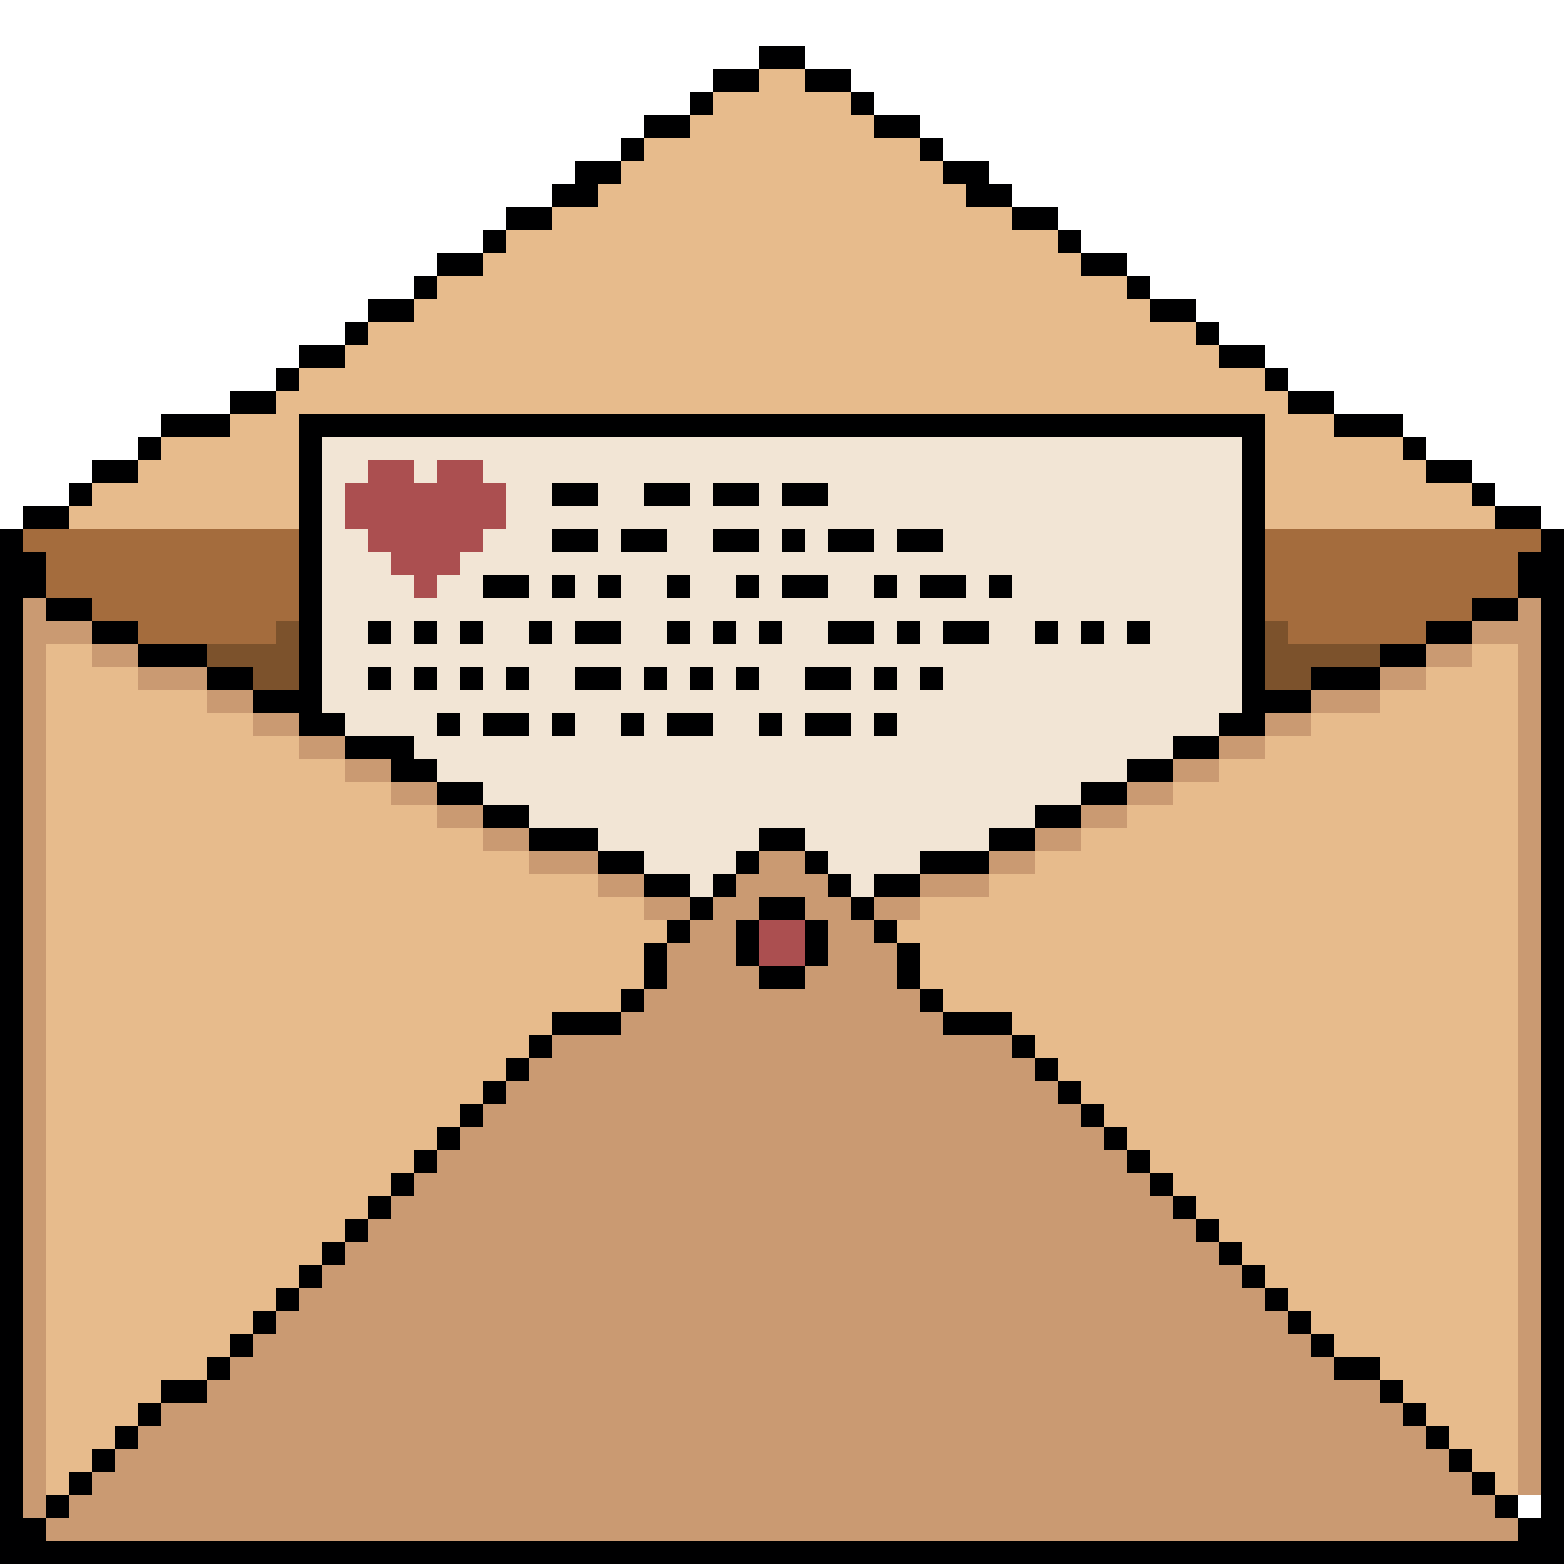
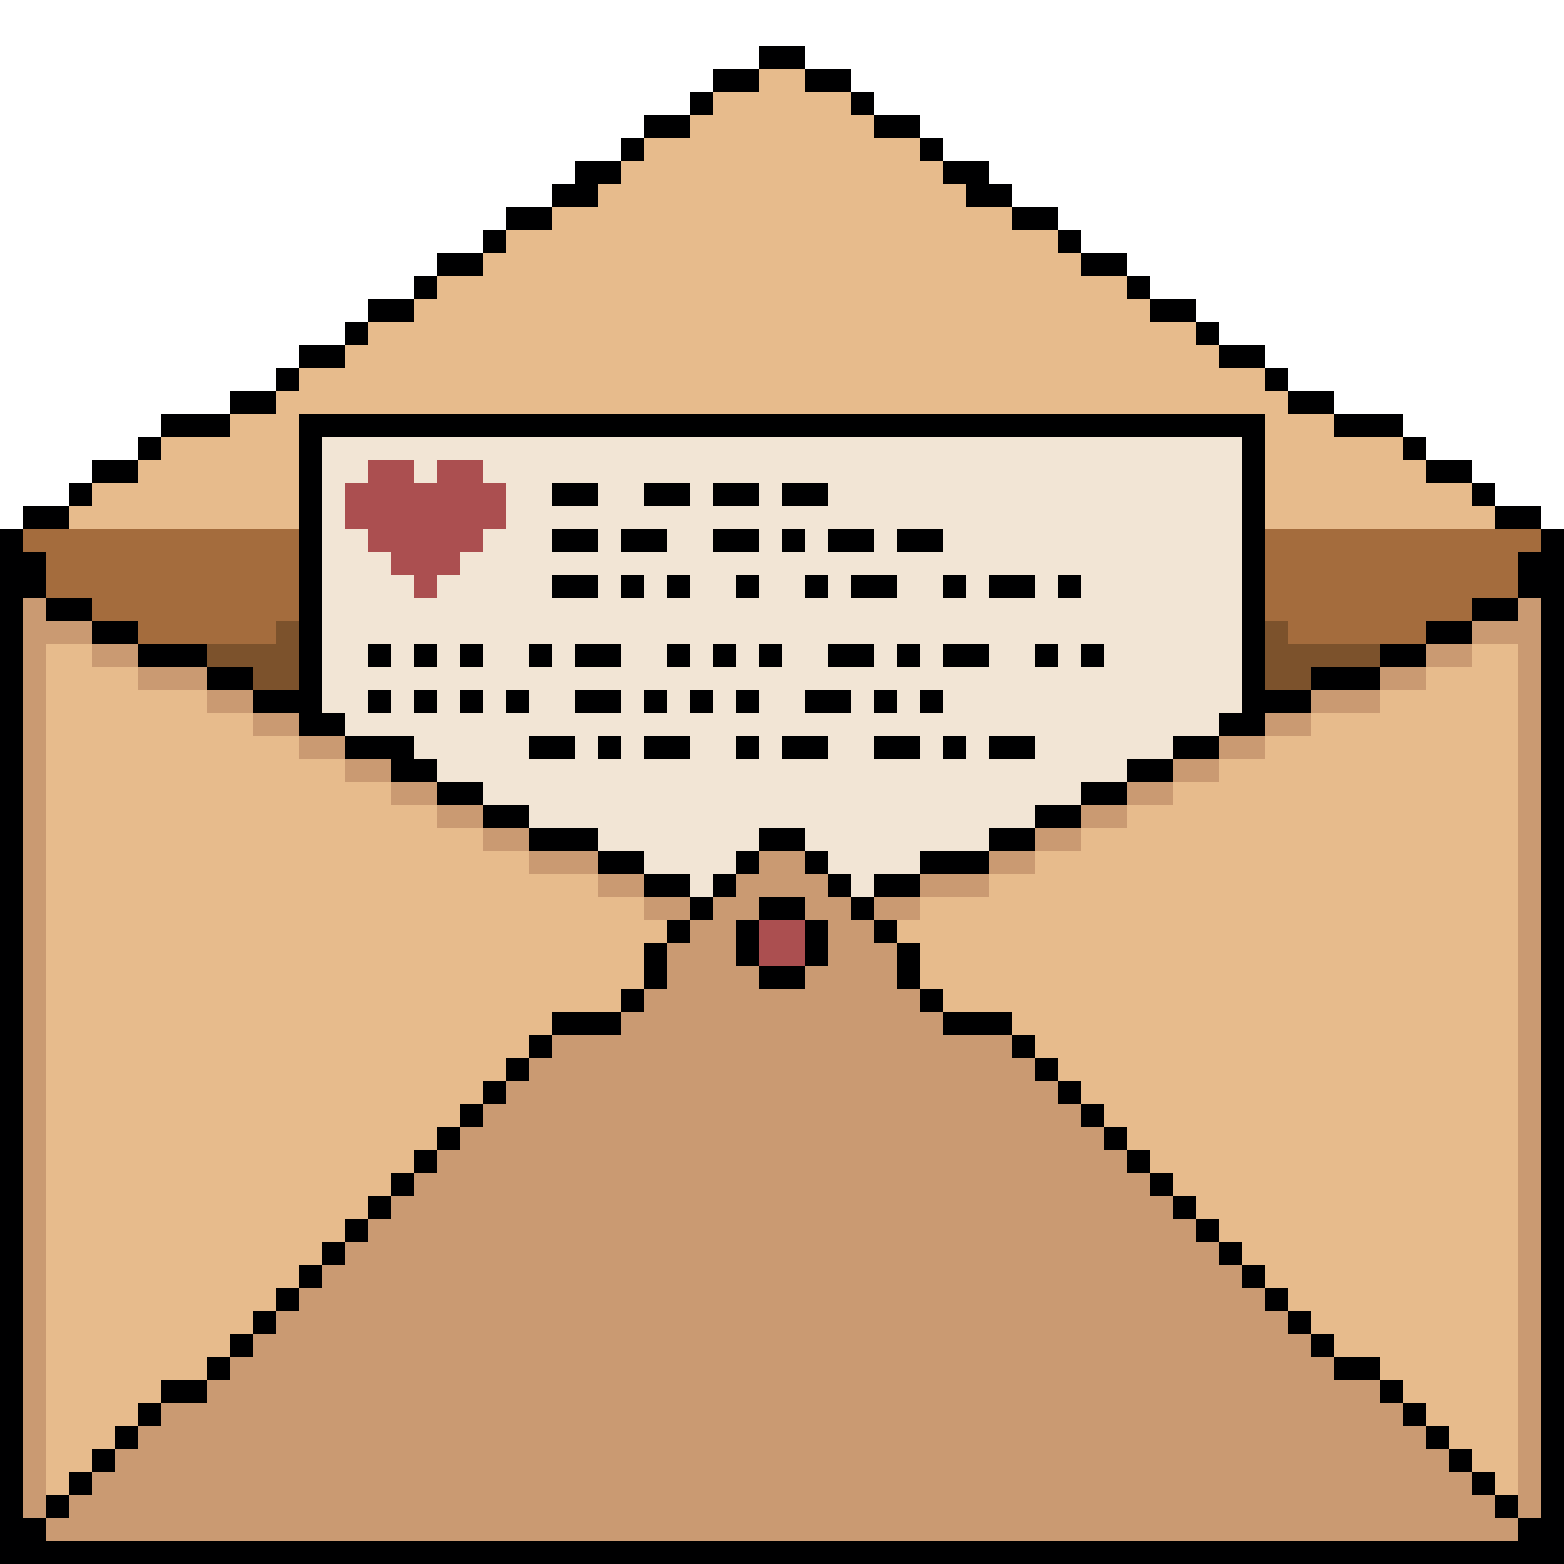
tambah ucapan dan hapus bunga atau hal confess lainnya

Changed region(s): [[0.2148, 0.3683, 0.7366, 0.491], [0.9514, 0.9514, 0.9821, 0.9821]]

diff --git a/index.html b/index.html
@@ -21,12 +21,14 @@
             <h4>HAPPY BIRTHDAY KAK</h4>
         </header>
         <div class="isi">
-            <p> Today is all about you, your kindness, your growth, your strength, and all little things that make you who you are. Seperti yang kita tau aku susah untuk mengungkapkan apa yang aku rasakan atau susah berkata kata, jadi ini akan menjadi surat yang singkat.</p>
-            <p> Aku bangga bisa mengenalmu, aku bangga bisa menjadi temanmu, aku bangga bisa melihat kamu tumbuh menjadi orang yang hebat seperti sekarang (walau kita jarang ketemu). I wish you all the best in your life, semoga kamu selalu sehat, bahagia, sukses, dan mencintai hidupmu serta dirimu sendiri.</p>
-            <p> Terima kasih sudah ada, terima kasih sudah menemaniku dan mendengarku</p>
+            <p> Happy 16th kak, akhirnya umur kita samaan awkoakwoakoawk.</p>
+            <p> Today is all about you, your kindness, your growth, your strength, and all little things that make you who you are. Seperti yang kita tau aku susah untuk mengungkapkan apa yang aku rasakan atau susah berkata kata, jadi ini akan menjadi ucapan yang singkat.</p>
+            <p> Aku harap kehidupanmu selalu didampingi oleh kasih, semoga rintanganmu selalu dibersamai oleh kemudahan, semoga kamu selalu dikelilingi orang-orang baik dan lingkungan yang baik serta mendukung, semoga kamu selalu sehat, bahagia, sukses, dan mencintai hidupmu serta dirimu sendiri.</p>
+            <p> Aku bangga bisa mengenalmu, aku bangga bisa menjadi temanmu, aku bangga bisa melihat kamu tumbuh menjadi orang yang hebat seperti sekarang (walau kita jarang ketemu). I wish you all the best in your life.</p>
+            <p> Terima kasih sudah ada, terima kasih sudah menemaniku dan selalu mendengarku, terima kasih sudah menjadi orang yang baik.</p>
         </div>
         </div>
     </div>
     <script src="script.js"></script>
-</body>
+</body> 
 </html> 
